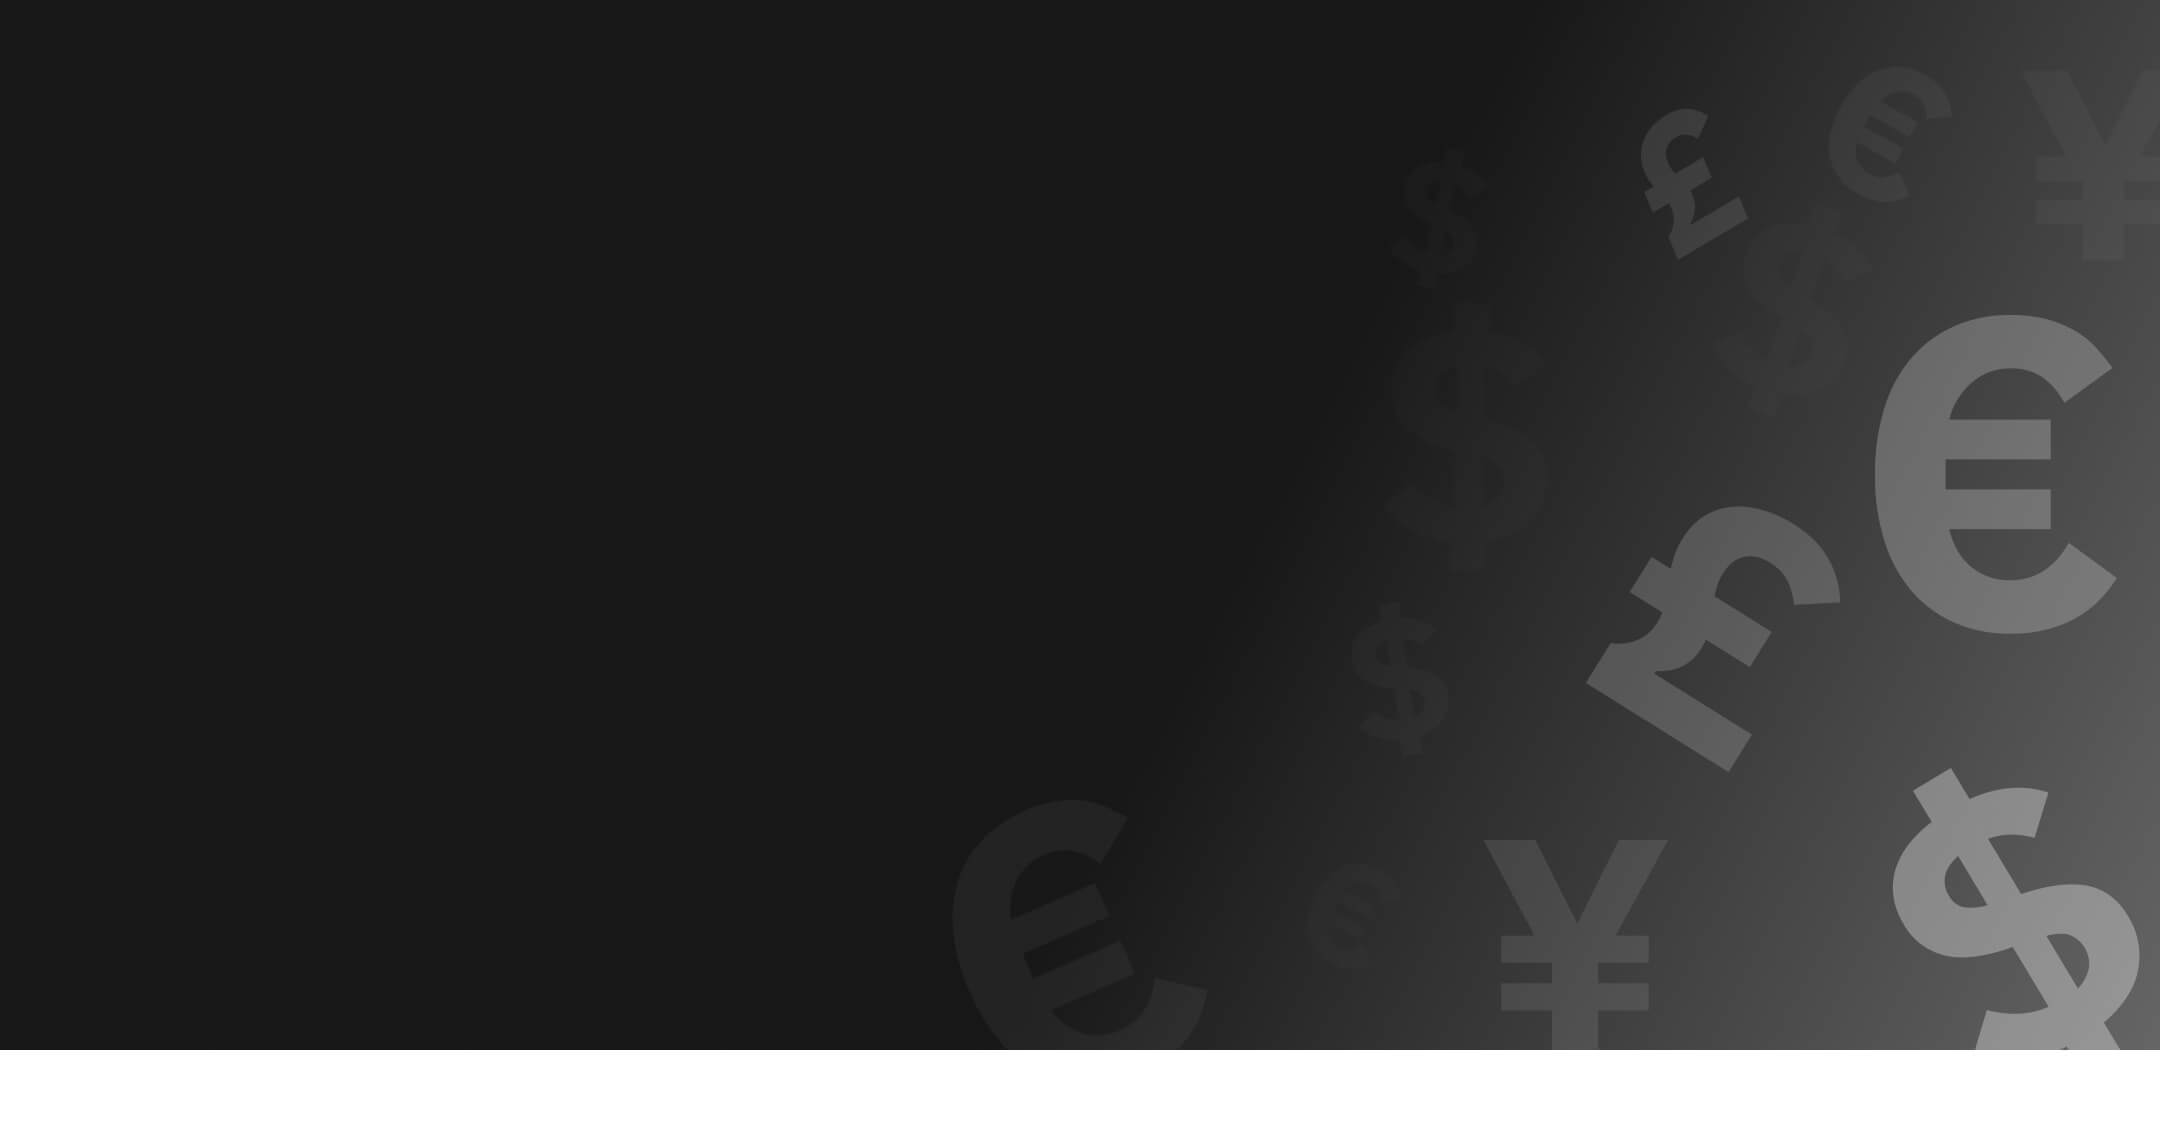
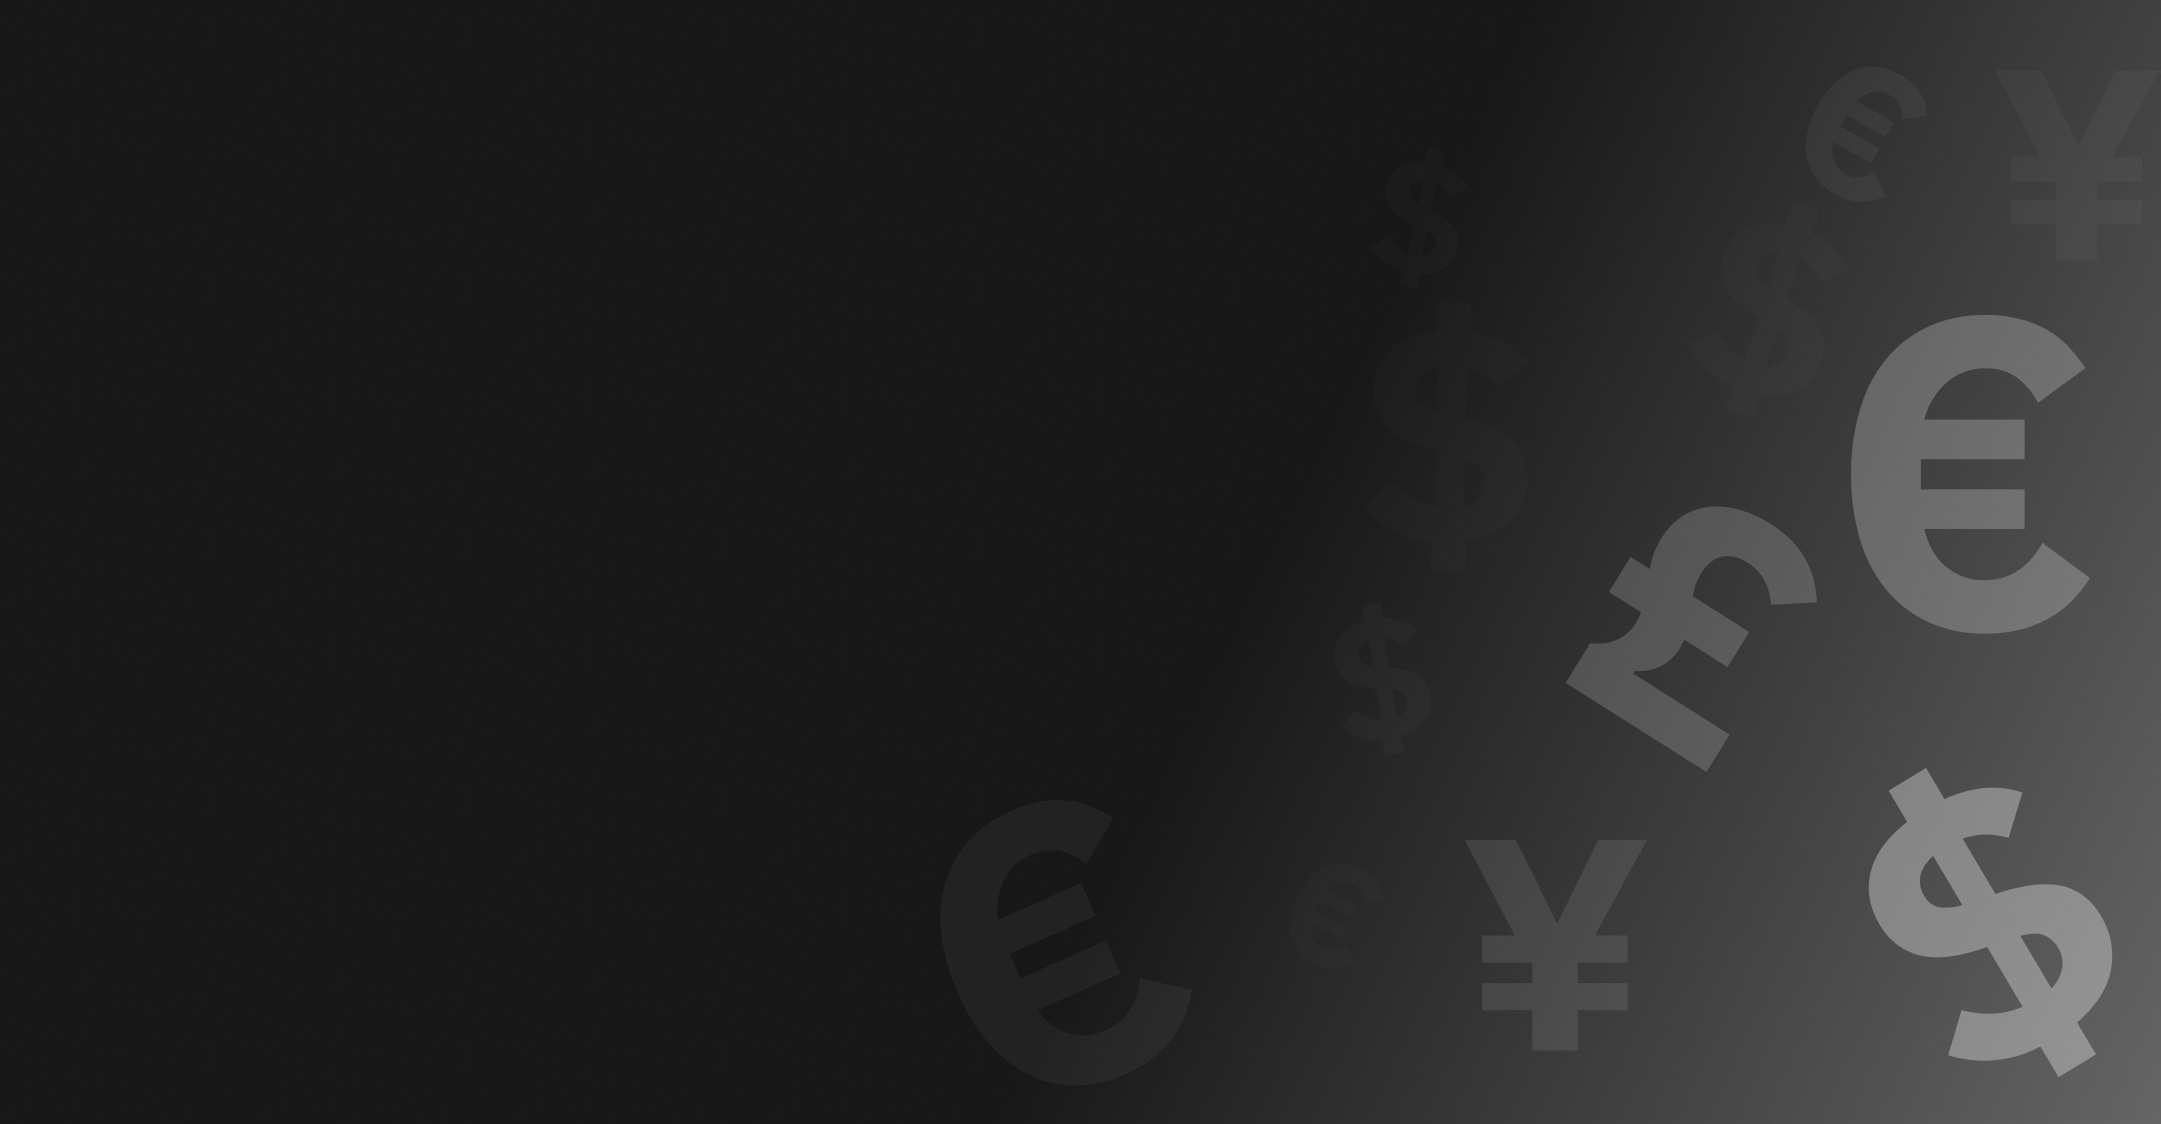
fix cta url review1

Changed region(s): [[0.0, 0.6851, 1.0, 1.0], [0.7131, 0.2802, 0.9921, 0.6851]]

diff --git a/src/pages/landing/forex-trading/components/_table-btn.js b/src/pages/landing/forex-trading/components/_table-btn.js
@@ -25,7 +25,6 @@ const StyledText = styled(Text)`
     @media ${device.tabletL} {
         font-size: 16px;
         line-height: 30px;
-        text-align: center;
     }
 `
 
@@ -57,7 +56,7 @@ const Tablebtn = ({ btnlabel, text }) => {
     return (
         <StyledSection background="var(--color-grey-30)" padding="3rem 0">
             <StyledContainer direction="column">
-                <StyledText align="left" size="1.7rem">
+                <StyledText width="100%" size="1.7rem">
                     {text}
                 </StyledText>
                 <MarketInstruments
@@ -70,7 +69,7 @@ const Tablebtn = ({ btnlabel, text }) => {
                     rel="noopener noreferrer nofollow"
                     type="submit"
                     secondary="true"
-                    to={'https://app.deriv.com/'}
+                    to={'https://deriv.com/signup/'}
                 >
                     {btnlabel}
                 </TryButton>

diff --git a/src/pages/landing/trade-forex/components/_table-btn.js b/src/pages/landing/trade-forex/components/_table-btn.js
@@ -25,7 +25,6 @@ const StyledText = styled(Text)`
     @media ${device.tabletL} {
         font-size: 16px;
         line-height: 30px;
-        text-align: center;
     }
 `
 
@@ -57,7 +56,7 @@ const Tablebtn = ({ btnlabel, text }) => {
     return (
         <StyledSection background="var(--color-grey-30)" padding="3rem 0">
             <StyledContainer direction="column">
-                <StyledText align="left" size="1.7rem">
+                <StyledText width="100%" size="1.7rem">
                     {text}
                 </StyledText>
                 <MarketInstruments
@@ -70,7 +69,7 @@ const Tablebtn = ({ btnlabel, text }) => {
                     rel="noopener noreferrer nofollow"
                     type="submit"
                     secondary="true"
-                    to={'https://app.deriv.com/'}
+                    to={'https://deriv.com/signup/'}
                 >
                     {btnlabel}
                 </TryButton>

diff --git a/src/pages/landing/forex-trading/components/_hero.js b/src/pages/landing/forex-trading/components/_hero.js
@@ -106,7 +106,7 @@ const HeroComponent = ({ title, content, background_data }) => {
                         rel="noopener noreferrer nofollow"
                         type="submit"
                         secondary="true"
-                        to={'https://app.deriv.com/'}
+                        to={'https://deriv.com/signup/'}
                     >
                         {localize('Star trading')}
                     </TryButton>
@@ -118,7 +118,7 @@ const HeroComponent = ({ title, content, background_data }) => {
 
 const query = graphql`
     query {
-        p2p_hero_background: file(relativePath: { eq: "landing/trade-fx.png" }) {
+        p2p_hero_background: file(relativePath: { eq: "landing/trade-fx.jpg" }) {
             ...fadeIn
         }
         p2p_hero_background_mobile: file(relativePath: { eq: "landing/trade-fx-m.jpg" }) {

diff --git a/src/pages/landing/trade-forex/components/_hero.js b/src/pages/landing/trade-forex/components/_hero.js
@@ -105,7 +105,7 @@ const HeroComponent = ({ title, content, background_data }) => {
                         rel="noopener noreferrer nofollow"
                         type="submit"
                         secondary="true"
-                        to={'https://app.deriv.com/'}
+                        to={'https://deriv.com/signup/'}
                     >
                         {localize('Star trading')}
                     </TryButton>
@@ -117,7 +117,7 @@ const HeroComponent = ({ title, content, background_data }) => {
 
 const query = graphql`
     query {
-        p2p_hero_background: file(relativePath: { eq: "landing/trade-fx.png" }) {
+        p2p_hero_background: file(relativePath: { eq: "landing/trade-fx.jpg" }) {
             ...fadeIn
         }
         p2p_hero_background_mobile: file(relativePath: { eq: "landing/trade-fx-m.jpg" }) {

diff --git a/src/pages/landing/forex-trading/index.js b/src/pages/landing/forex-trading/index.js
@@ -28,7 +28,7 @@ const DP2P_CONTENT = [
         ),
 
         image_name: 'login',
-        image_alt: localize('Buy and sell'),
+        image_alt: localize('Login'),
     },
     {
         title: <Localize translate_text="Step 2" />,
@@ -46,7 +46,7 @@ const DP2P_CONTENT = [
         ),
 
         image_name: 'dmt5_acc',
-        image_alt: localize('Local currency'),
+        image_alt: localize('DMT5 account'),
     },
     {
         title: <Localize translate_text="Step 3" />,
@@ -63,8 +63,8 @@ const DP2P_CONTENT = [
             />
         ),
 
-        image_name: 'dmt5_acc',
-        image_alt: localize('Buy and sell'),
+        image_name: 'dmt5_login',
+        image_alt: localize('DMT5 login'),
     },
 ]
 

diff --git a/src/pages/landing/trade-forex/index.js b/src/pages/landing/trade-forex/index.js
@@ -28,7 +28,7 @@ const DP2P_CONTENT = [
         ),
 
         image_name: 'login',
-        image_alt: localize('Buy and sell'),
+        image_alt: localize('Login'),
     },
     {
         title: <Localize translate_text="Step 2" />,
@@ -46,7 +46,7 @@ const DP2P_CONTENT = [
         ),
 
         image_name: 'dmt5_acc',
-        image_alt: localize('Local currency'),
+        image_alt: localize('DMT5 account'),
     },
     {
         title: <Localize translate_text="Step 3" />,
@@ -63,8 +63,8 @@ const DP2P_CONTENT = [
             />
         ),
 
-        image_name: 'dmt5_acc',
-        image_alt: localize('Buy and sell'),
+        image_name: 'dmt5_login',
+        image_alt: localize('DMT5 login'),
     },
 ]
 

diff --git a/src/pages/landing/forex-trading/components/_image-text-switching.js b/src/pages/landing/forex-trading/components/_image-text-switching.js
@@ -112,7 +112,7 @@ const ImageTextSwitching = ({ P2P, reverse, two_title }) => {
                 {P2P.map((item, index) => {
                     let is_even = isIndexEven(index, reverse)
                     return (
-                        <Row flex_direction={!is_even ? 'row' : 'row-reverse'} key={index}>
+                        <Row flex_direction={!is_even ? 'row' : 'row-reverse'} key={item.title}>
                             <Content margin_right={!is_even ? '12.6rem' : '0'}>
                                 <StyledHeader type="heading-3" mb="1rem">
                                     {item.title}

diff --git a/src/pages/landing/trade-forex/components/_image-text-switching.js b/src/pages/landing/trade-forex/components/_image-text-switching.js
@@ -112,7 +112,7 @@ const ImageTextSwitching = ({ P2P, reverse, two_title }) => {
                 {P2P.map((item, index) => {
                     let is_even = isIndexEven(index, reverse)
                     return (
-                        <Row flex_direction={!is_even ? 'row' : 'row-reverse'} key={index}>
+                        <Row flex_direction={!is_even ? 'row' : 'row-reverse'} key={item.title}>
                             <Content margin_right={!is_even ? '12.6rem' : '0'}>
                                 <StyledHeader type="heading-3" mb="1rem">
                                     {item.title}

diff --git a/src/pages/landing/forex-trading/components/_icon-text-row.js b/src/pages/landing/forex-trading/components/_icon-text-row.js
@@ -19,7 +19,6 @@ const Column = styled.div`
 
 const Row = styled.div`
     display: flex;
-    flex-direction: row;
     width: 100%;
     justify-content: center;
 `

diff --git a/src/pages/landing/trade-forex/components/_icon-text-row.js b/src/pages/landing/trade-forex/components/_icon-text-row.js
@@ -18,7 +18,6 @@ const Column = styled.div`
 
 const Row = styled.div`
     display: flex;
-    flex-direction: row;
     width: 100%;
     justify-content: center;
 `
